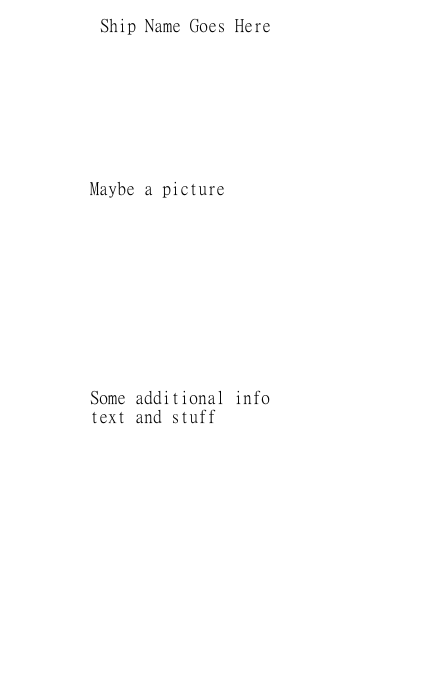
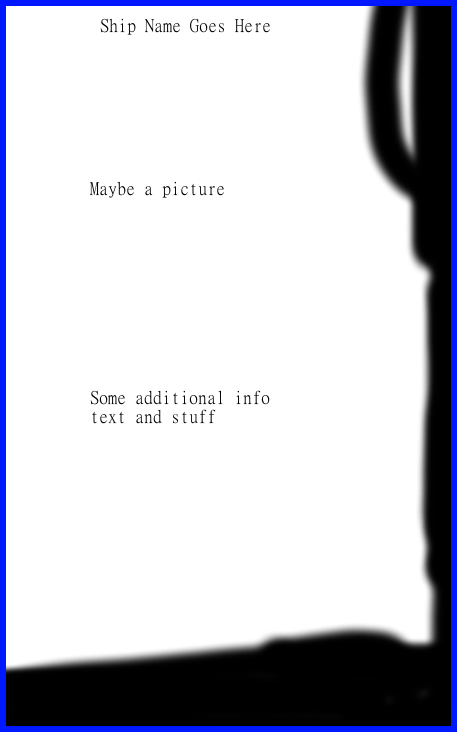
Ships move individually Menu improvements Preliminary hud component JLabelTest is now ShipSelectMenu Enterprise image fixed
-removing ships from menu in wrong order still screws up layout

diff --git a/GameEngine.java b/GameEngine.java
@@ -4,6 +4,8 @@ import java.util.ArrayList;
 import java.awt.PointerInfo; //gets mouse position
 import java.awt.MouseInfo; //gets mouse position
 import java.awt.Toolkit; //gets screen resolution
+import javax.sound.sampled.*;
+import java.io.File;
 
 public class GameEngine
 {
@@ -24,31 +26,46 @@ public class GameEngine
         frame.setLocation(0,0);
         frame.setDefaultCloseOperation(JFrame.EXIT_ON_CLOSE);
         frame.setVisible(true);
-        ArrayList<Double> startState = new ArrayList<Double>(); //starting state for one ship. Passed into contructor of ship class. 
-        startState.add(0.0); //x position
-        startState.add(0.0); //y position
-        startState.add(0.0); //x velocity (should be 0)
-        startState.add(0.0); //y velocity
-        startState.add(0.0); //x acceleration
-        startState.add(0.0); //y acceleration
-        startState.add(0.0); //'speed', current velocity overall (x and y)
-        startState.add(0.0); //current direction, in radians. Starts at positive x, clockwise
-        startState.add(0.0); //current turn speed, in radians per frame
-        ArrayList<Double> startState2 = new ArrayList<Double>(); //starting state for one ship. Passed into contructor of ship class. 
-        startState2.add(200.0); //x position
-        startState2.add(600.0); //y position
-        startState2.add(0.0); //x velocity (should be 0)
-        startState2.add(0.0); //y velocity
-        startState2.add(0.0); //x acceleration
-        startState2.add(0.0); //y acceleration
-        startState2.add(0.0); //'speed', current velocity overall (x and y)
-        startState2.add(3.0); //current direction, in radians. Starts at positive x, clockwise
-        startState2.add(0.0); //current turn speed, in radians per frame
+        //         ArrayList<Double> startState = new ArrayList<Double>(); //starting state for one ship. Passed into contructor of ship class. 
+        //         startState.add(0.0); //x position
+        //         startState.add(0.0); //y position
+        //         startState.add(0.0); //x velocity (should be 0)
+        //         startState.add(0.0); //y velocity
+        //         startState.add(0.0); //x acceleration
+        //         startState.add(0.0); //y acceleration
+        //         startState.add(0.0); //'speed', current velocity overall (x and y)
+        //         startState.add(0.0); //current direction, in radians. Starts at positive x, clockwise
+        //         startState.add(0.0); //current turn speed, in radians per frame
+        //         ArrayList<Double> startState2 = new ArrayList<Double>(); //starting state for one ship. Passed into contructor of ship class. 
+        //         startState2.add(200.0); //x position
+        //         startState2.add(600.0); //y position
+        //         startState2.add(0.0); //x velocity (should be 0)
+        //         startState2.add(0.0); //y velocity
+        //         startState2.add(0.0); //x acceleration
+        //         startState2.add(0.0); //y acceleration
+        //         startState2.add(0.0); //'speed', current velocity overall (x and y)
+        //         startState2.add(3.0); //current direction, in radians. Starts at positive x, clockwise
+        //         startState2.add(0.0); //current turn speed, in radians per frame
         final ArrayList<ShipComponent> shipList = ships;
+        final ArrayList<Integer> teamOneInd = new ArrayList<Integer>(); //tells which ships are on which teams
+        final ArrayList<Integer> teamTwoInd = new ArrayList<Integer>();
+        for(int i = 0; i < shipList.size(); i++)
+        {
+            if(shipList.get(i).getTeam()==1)
+            {
+                teamOneInd.add(i);
+            }
+            else 
+            {
+                teamTwoInd.add(i);
+            }
+        }
+
         //final ShipComponent a = new ShipComponent(startState, "Transporter", 1);
         //final ShipComponent b = new ShipComponent(startState2,"Cylon", 2);
         //shipList.add(a);
         //shipList.add(b);
+        final HudComponent h = new HudComponent();
         final ShipComponent[] currentlySelected = new ShipComponent[1];
         currentlySelected[0] = shipList.get(0);
         final PathComponent p = new PathComponent(400,400);
@@ -87,15 +104,16 @@ public class GameEngine
                         //it's also probably necessary for collision detection later
 
                         //System.out.println("\f" + state.toString());
+                        count++;
+                        if(count > 250)
+                        {
+                            pauseTurn = true;
+                            count = 0;
+                        }
                         for(ShipComponent s: shipList)
                         {
                             ArrayList<Double> state = s.getState(); //just used for debug, you can get all the values
-                            count++;
-                            if(count > 250)
-                            {
-                                pauseTurn = true;
-                                count = 0;
-                            }
+
                             if(s.readyToFire())
                             {
                                 allProjectiles.add(s.fire()); //add to array list
@@ -204,19 +222,65 @@ public class GameEngine
 
         class KeyTest implements KeyListener {
             private long lastPressProcessed = 0;
+            private int player;
+            private ArrayList<Integer> currentSelectable;
+            private ArrayList<Integer> p1Selectable;
+            private ArrayList<Integer> p2Selectable;
+            public KeyTest(ArrayList<Integer> p1i, ArrayList<Integer> p2i)
+            {
+                player = 1;
+                p1Selectable = p1i;
+                p2Selectable = p2i;
+                currentSelectable = p1i;
+            }
+
             public void keyTyped(KeyEvent e){
-                if(e.getKeyChar()=='p')
+                if(e.getKeyChar()=='b')
                 {
-                    pauseTurn = false;
-                    count = 0;
+                    
+                    System.out.println(player);
+                    if(player == 1)
+                    {
+                        playerSwitch();
+                    }
+                    else if (player==2)
+                    {
+                        playerSwitch();
+                        pauseTurn = false;
+                        count = 0;
+                    }
                 }
-                else if(e.getKeyChar()=='q')
+                else if(e.getKeyChar()=='1')
                 {
-                    currentlySelected[0] = shipList.get(0);
+                    currentlySelected[0] = shipList.get(currentSelectable.get(0));
                 }
-                else if(e.getKeyChar()=='w')
+                else if(e.getKeyChar()=='2' && currentSelectable.size()>1)
                 {
-                    currentlySelected[0] = shipList.get(1);
+                    currentlySelected[0] = shipList.get(currentSelectable.get(1));
+                }
+                else if(e.getKeyChar()=='3' && currentSelectable.size()>2)
+                {
+                    currentlySelected[0] = shipList.get(currentSelectable.get(2));
+                }
+                else if(e.getKeyChar()=='4' && currentSelectable.size()>3)
+                {
+                    currentlySelected[0] = shipList.get(currentSelectable.get(3));
+                }
+                else if(e.getKeyChar()=='5' && currentSelectable.size()>4)
+                {
+                    currentlySelected[0] = shipList.get(currentSelectable.get(4));
+                }
+                else if(e.getKeyChar()=='6' && currentSelectable.size()>5)
+                {
+                    currentlySelected[0] = shipList.get(currentSelectable.get(5));
+                }
+                else if(e.getKeyChar()=='7' && currentSelectable.size()>6)
+                {
+                    currentlySelected[0] = shipList.get(currentSelectable.get(6));
+                }
+                else if(e.getKeyChar()=='8' && currentSelectable.size()>7)
+                {
+                    currentlySelected[0] = shipList.get(currentSelectable.get(7));
                 }
             }
 
@@ -225,13 +289,29 @@ public class GameEngine
             }
 
             public void keyReleased(KeyEvent e){}
-        }
 
+            public void playerSwitch()
+            {
+                if(player == 1) 
+                {
+                    player = 2;
+
+                    currentSelectable = p2Selectable;
+                }
+                else if(player == 2)
+                {
+                    player = 1;
+                    currentSelectable = p1Selectable;
+                }
+
+            }
+        }
         t = new Timer(delay, frameTimer); 
         t.start();
         frame.addMouseListener(new MouseTest());
-        frame.addKeyListener(new 
-            KeyTest());
+        frame.addKeyListener(new KeyTest(teamOneInd, teamTwoInd));
+        frame.add(h);
+        frame.setVisible(true);
         for(ShipComponent s: shipList)
         {
             frame.add(s);
@@ -245,5 +325,25 @@ public class GameEngine
         frame.setVisible(true);
     }
 
-
+    public void playSound()
+    {
+        AudioInputStream music;
+        AudioInputStream music2;
+        try
+        {
+            music = AudioSystem.getAudioInputStream(new File("CrashSound.wav"));
+            music2 = AudioSystem.getAudioInputStream(new File("CrashSound2.wav"));
+            Clip clip2 = AudioSystem.getClip();
+            Clip clip = AudioSystem.getClip();
+            clip2.open(music2);
+            clip.open(music);
+            clip2.start();
+            clip.start();
+            //clip.loop(clip.LOOP_CONTINUOUSLY);
+        }
+        catch(Exception error)
+        {
+            // do nothing
+        }
+    }
 }

diff --git a/HudComponent.java b/HudComponent.java
@@ -1,0 +1,28 @@
+import javax.swing.*;
+import java.awt.geom.*;
+import java.awt.*;
+
+public class HudComponent extends JComponent
+{
+    Rectangle2D.Double rec;
+
+    public HudComponent()
+    {
+        rec = new Rectangle2D.Double(0,0,100,(int) Toolkit.getDefaultToolkit().getScreenSize().getHeight());
+    }
+
+    public void paintComponent(Graphics g)
+    {
+        Graphics2D g2 = (Graphics2D) g;
+
+        
+        g2.setPaint(Color.BLACK);
+        g2.fill(rec);
+        g2.setPaint(Color.WHITE);
+        g2.drawString("Yo, check it out!", 0, 12);
+        //g2.setPaint(Color.BLUE);
+        //g2.fill(recb);
+
+    }
+
+}

diff --git a/ShipSelectMenu.java b/ShipSelectMenu.java
@@ -5,7 +5,7 @@ import java.util.ArrayList;
 import java.util.StringTokenizer;
 import java.io.*;
 
-public class JLabelTest
+public class ShipSelectMenu
 {
     static ArrayList<ShipComponent> gameShips = new ArrayList<ShipComponent>();
     static double[][] gameStates = new double[16][10];
@@ -46,6 +46,7 @@ public class JLabelTest
                     p2.repaint();
                     p2.revalidate();
                 }
+                
                 panel.repaint();
                 panel.revalidate();
             }
